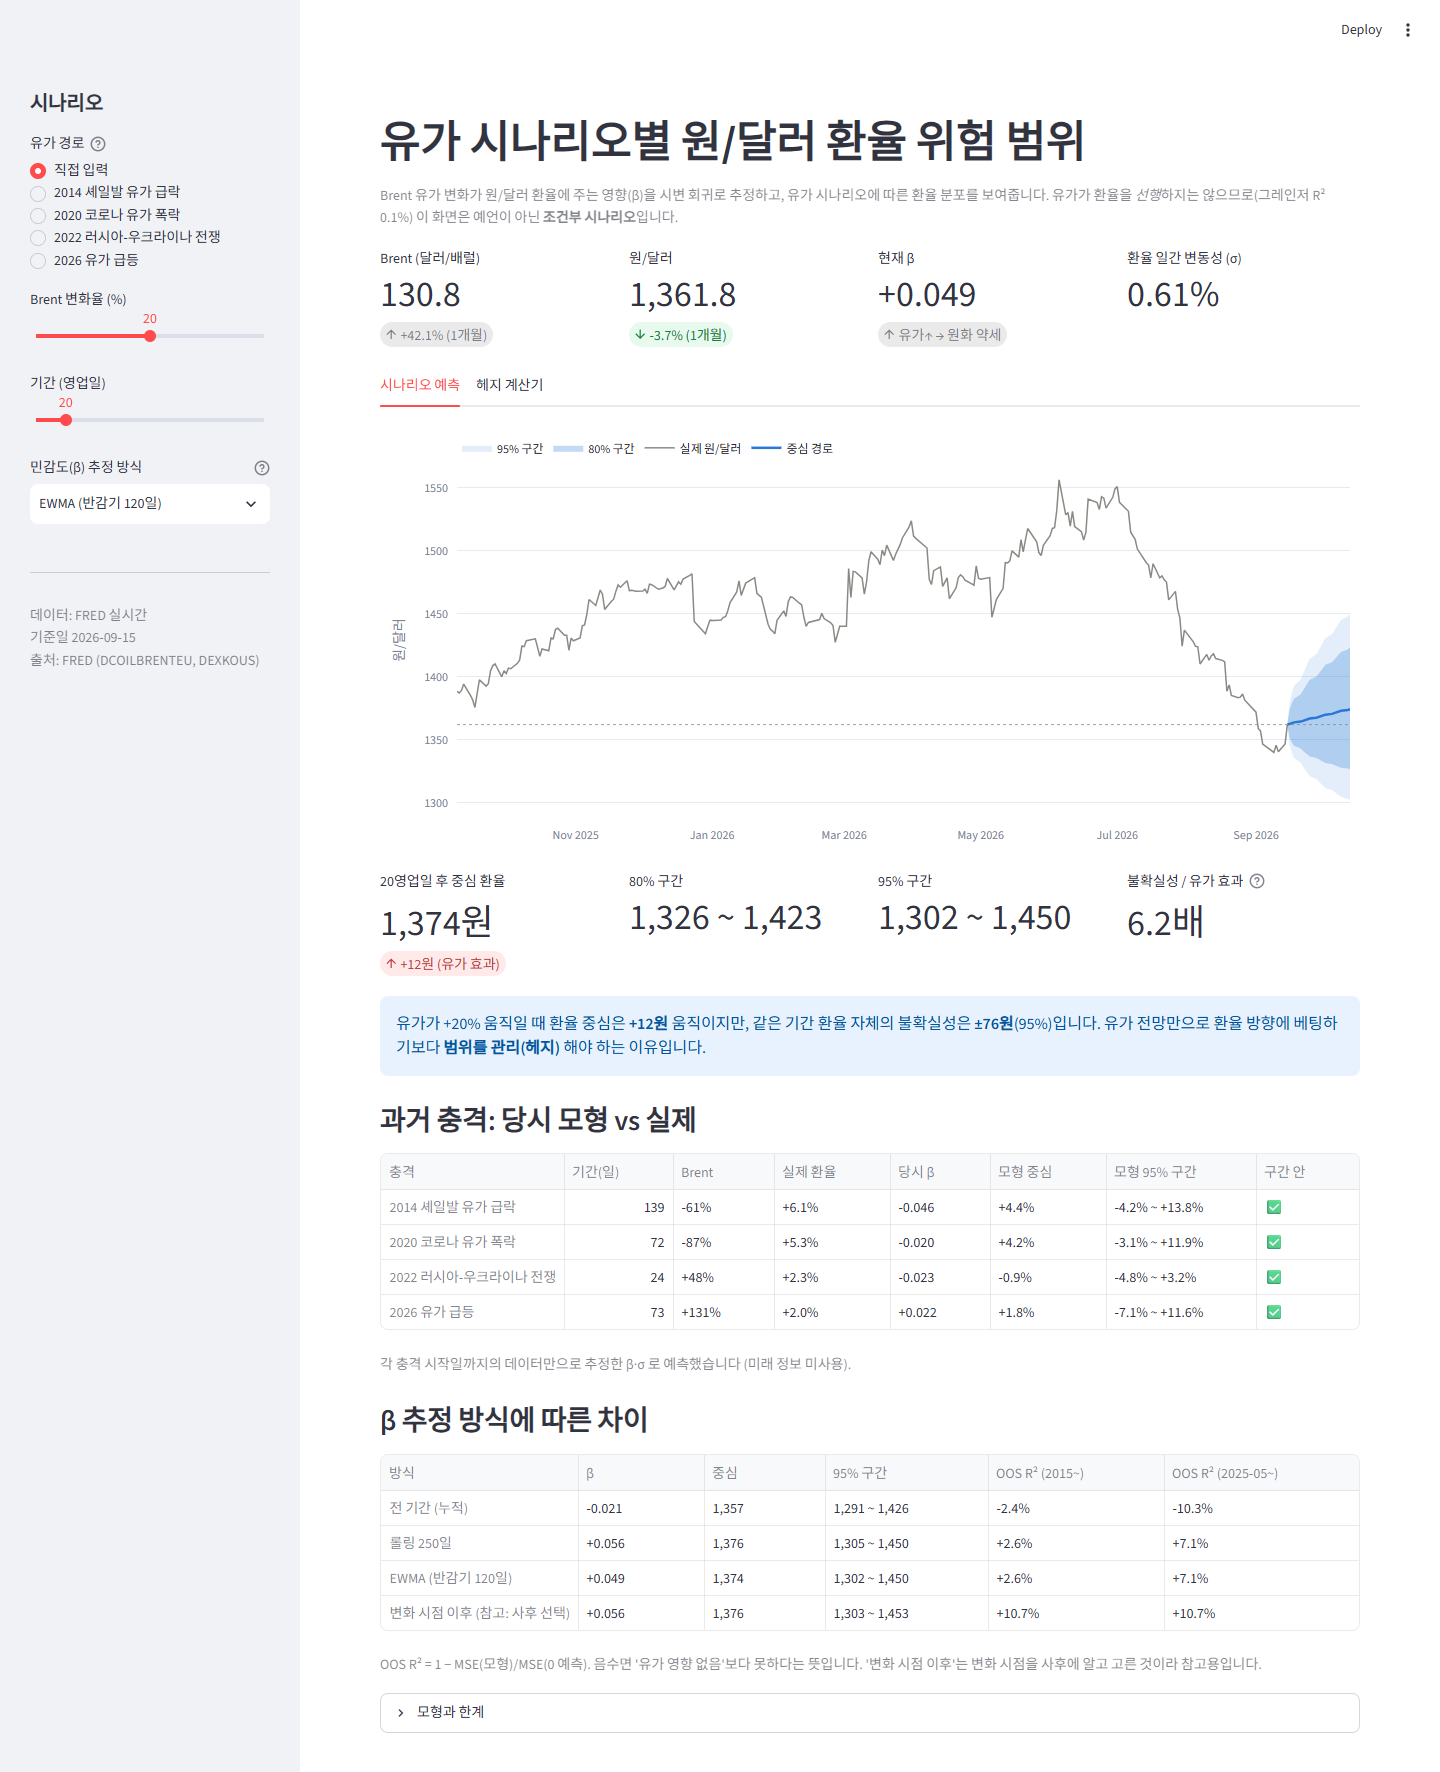
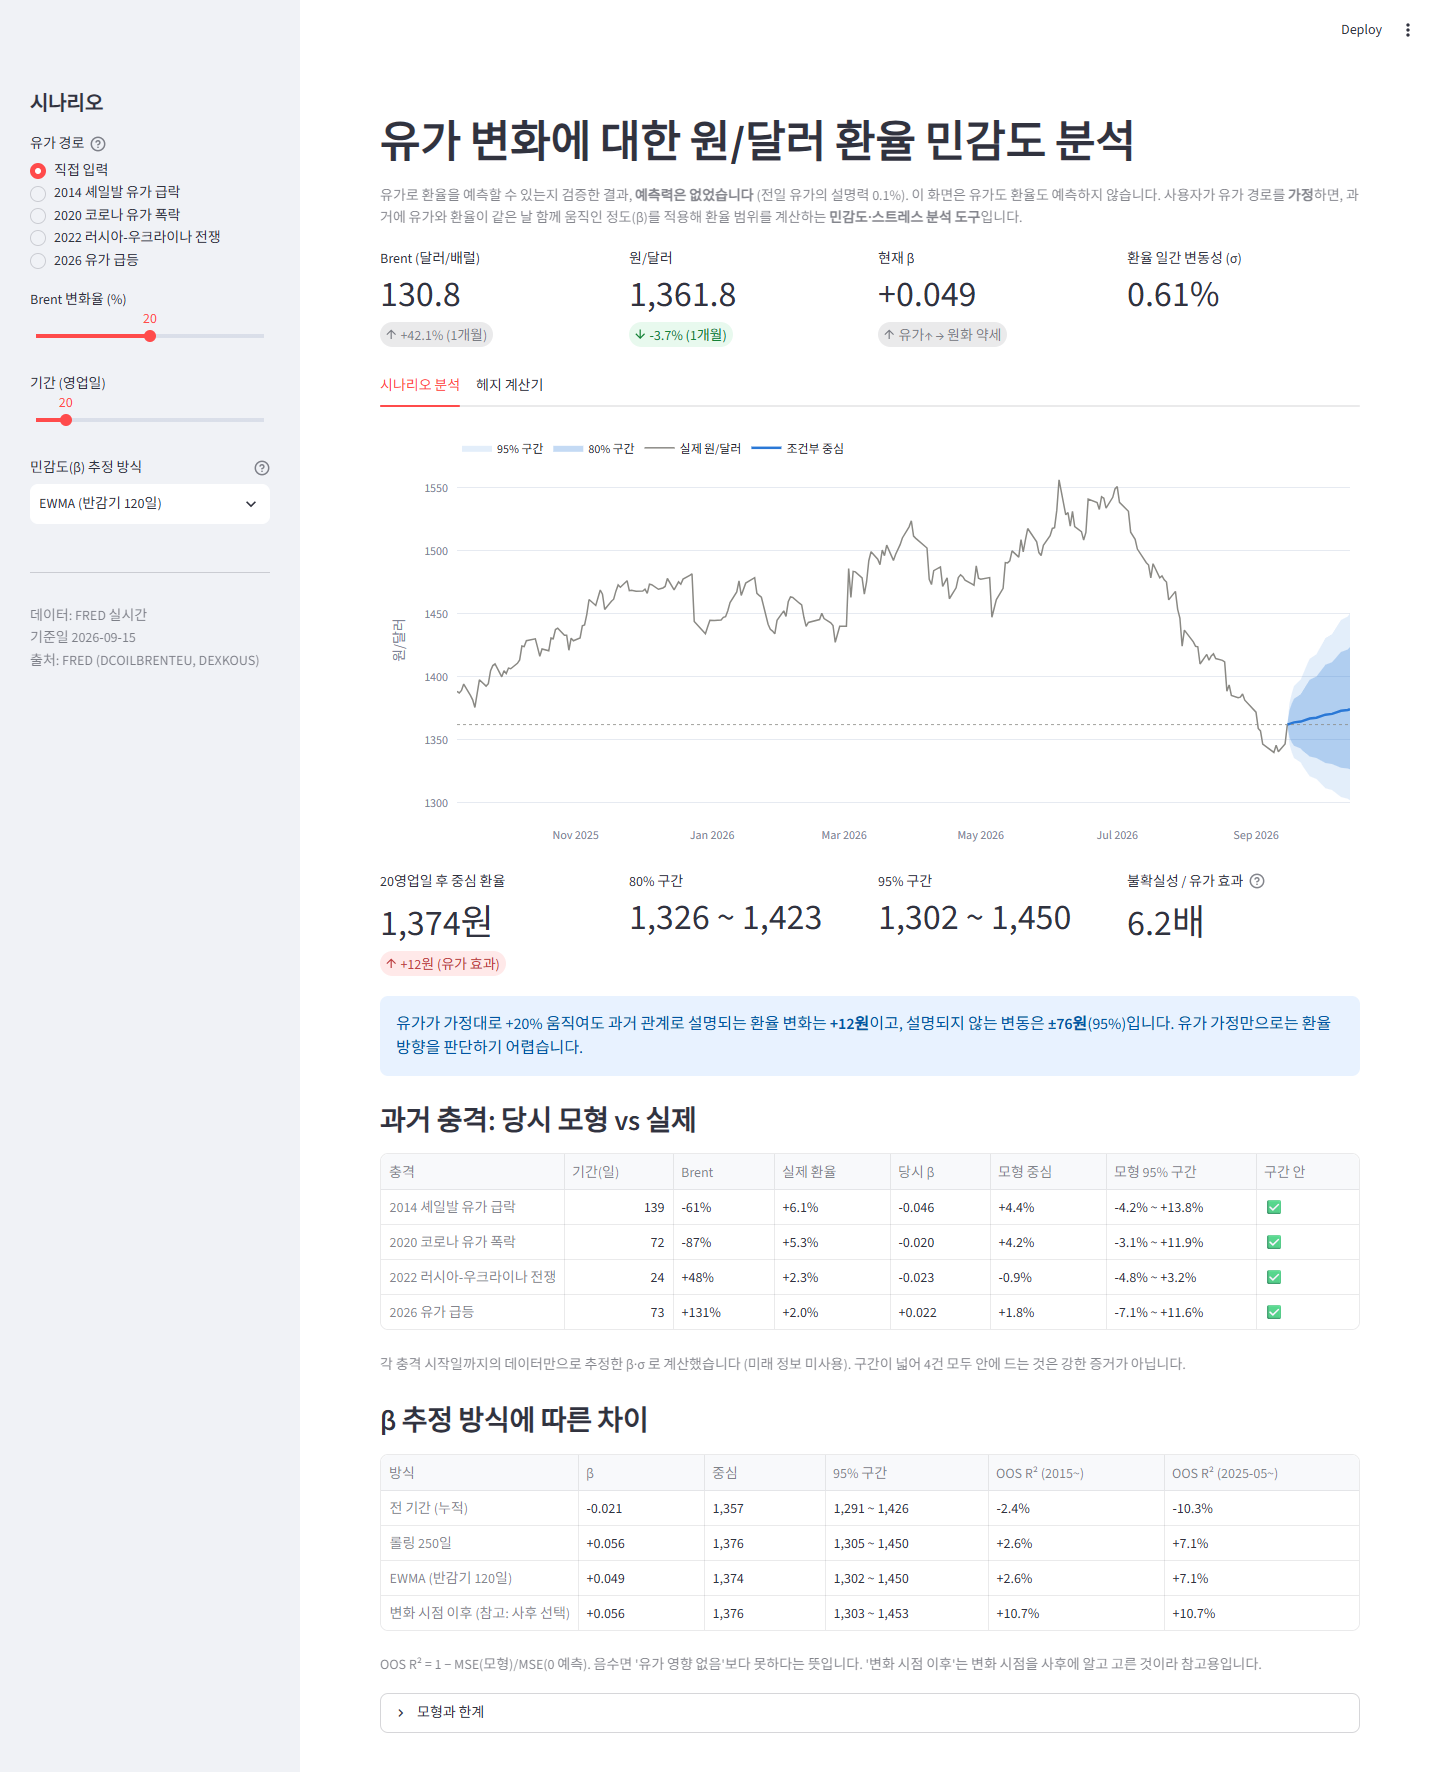
Reframe project as a forecastability test
The analysis found no predictive power of oil for USD/KRW, so the README,
dashboard wording and docstrings now present the result as "cannot be
forecast" and the dashboard as a conditional sensitivity tool, with a
section documenting how the outcome differs from the original goal.

Changed region(s): [[0.25, 0.0621, 0.9375, 0.1242], [0.3125, 0.5587, 0.9375, 0.6208]]

diff --git a/app.py b/app.py
@@ -10,7 +10,7 @@ from src import data, hedge, model
 from src.config import SHOCKS
 from src.explore import FX, OIL
 
-st.set_page_config(page_title="유가–환율 시나리오", page_icon="🛢", layout="wide")
+st.set_page_config(page_title="유가–환율 민감도 분석", page_icon="🛢", layout="wide")
 
 # dataviz 참조 팔레트
 C1, C2, INK2 = "#2a78d6", "#eb6834", "#8a8984"
@@ -64,9 +64,10 @@ sc = model.scenario(spot, e_now.beta, e_now.sigma, oil_chg, days)
 end = sc.iloc[-1]
 
 # ── 헤더 ──────────────────────────────────────────────────────────────────
-st.title("유가 시나리오별 원/달러 환율 위험 범위")
-st.caption("Brent 유가 변화가 원/달러 환율에 주는 영향(β)을 시변 회귀로 추정하고, 유가 시나리오에 따른 환율 분포를 보여줍니다. "
-           "유가가 환율을 *선행*하지는 않으므로(그레인저 R² 0.1%) 이 화면은 예언이 아닌 **조건부 시나리오**입니다.")
+st.title("유가 변화에 대한 원/달러 환율 민감도 분석")
+st.caption("유가로 환율을 예측할 수 있는지 검증한 결과, **예측력은 없었습니다** (전일 유가의 설명력 0.1%). "
+           "이 화면은 유가도 환율도 예측하지 않습니다. 사용자가 유가 경로를 **가정**하면, 과거에 유가와 환율이 "
+           "같은 날 함께 움직인 정도(β)를 적용해 환율 범위를 계산하는 **민감도·스트레스 분석 도구**입니다.")
 
 k = st.columns(4)
 k[0].metric("Brent (달러/배럴)", f"{oil_now:,.1f}", f"{oil_now / daily[OIL].iloc[-21] - 1:+.1%} (1개월)",
@@ -76,7 +77,7 @@ k[2].metric("현재 β", f"{e_now.beta:+.3f}", "유가↑ → 원화 약세" if 
             delta_color="off")
 k[3].metric("환율 일간 변동성 (σ)", f"{e_now.sigma:.2%}")
 
-tab1, tab2 = st.tabs(["시나리오 예측", "헤지 계산기"])
+tab1, tab2 = st.tabs(["시나리오 분석", "헤지 계산기"])
 
 # ── 탭 1: 시나리오 ────────────────────────────────────────────────────────
 with tab1:
@@ -90,7 +91,7 @@ with tab1:
     fig.add_trace(go.Scatter(x=hist.index, y=hist, name="실제 원/달러", line=dict(color=INK2, width=1.5),
                              hovertemplate="%{x|%Y-%m-%d}<br>%{y:,.1f}원<extra></extra>"))
     fig.add_trace(go.Scatter(
-        x=fdates, y=sc.center, name="중심 경로", line=dict(color=C1, width=2.5),
+        x=fdates, y=sc.center, name="조건부 중심", line=dict(color=C1, width=2.5),
         customdata=np.c_[sc.oil_cum * 100, sc.lo95, sc.hi95],
         hovertemplate="%{x|%Y-%m-%d}<br>중심 %{y:,.1f}원<br>95%: %{customdata[1]:,.0f} ~ %{customdata[2]:,.0f}"
                       "<br>누적 유가 %{customdata[0]:+.1f}%<extra></extra>"))
@@ -107,9 +108,8 @@ with tab1:
     m[2].metric("95% 구간", f"{end.lo95:,.0f} ~ {end.hi95:,.0f}")
     m[3].metric("불확실성 / 유가 효과", f"{(end.hi95 - end.center) / max(abs(effect), 0.01):,.1f}배",
                 help="95% 구간 반폭 ÷ |유가 효과|. 1보다 크면 유가 외 요인의 변동이 더 크다는 뜻입니다.")
-    st.info(f"유가가 {oil_chg:+.0%} 움직일 때 환율 중심은 **{effect:+,.0f}원** 움직이지만, 같은 기간 환율 자체의 "
-            f"불확실성은 **±{end.hi95 - end.center:,.0f}원**(95%)입니다. 유가 전망만으로 환율 방향에 베팅하기보다 "
-            f"**범위를 관리(헤지)** 해야 하는 이유입니다.")
+    st.info(f"유가가 가정대로 {oil_chg:+.0%} 움직여도 과거 관계로 설명되는 환율 변화는 **{effect:+,.0f}원**이고, "
+            f"설명되지 않는 변동은 **±{end.hi95 - end.center:,.0f}원**(95%)입니다. 유가 가정만으로는 환율 방향을 판단하기 어렵습니다.")
 
     st.subheader("과거 충격: 당시 모형 vs 실제")
     rows = []
@@ -123,7 +123,7 @@ with tab1:
                      "모형 95% 구간": f"{b['lo95']:+.1%} ~ {b['hi95']:+.1%}" if has else "–",
                      "구간 안": ("✅" if b["lo95"] <= b["fx_chg"] <= b["hi95"] else "❌") if has else "–"})
     st.dataframe(pd.DataFrame(rows).set_index("충격"), width="stretch")
-    st.caption("각 충격 시작일까지의 데이터만으로 추정한 β·σ 로 예측했습니다 (미래 정보 미사용).")
+    st.caption("각 충격 시작일까지의 데이터만으로 추정한 β·σ 로 계산했습니다 (미래 정보 미사용). 구간이 넓어 4건 모두 안에 드는 것은 강한 증거가 아닙니다.")
     st.subheader("β 추정 방식에 따른 차이")
     rows = []
     for key, lab in model.METHODS.items():

diff --git a/src/model.py b/src/model.py
@@ -3,7 +3,7 @@
 모형:  r_fx,t = β_t · r_oil,t + ε_t,   ε_t ~ N(0, σ_t²)
 - β_t, σ_t 는 t-1 일까지의 데이터로만 추정한다 (미래 정보 차단).
 - 절편은 두지 않는다. 일별 환율 추세(드리프트)는 잡음 대비 너무 작아 추정 오차만 키운다.
-- 3단계 결론(동시점 관계, 선행 예측력 없음)에 따라 '조건부' 예측: 유가 경로를 주면 환율 분포를 낸다.
+- 3단계 결론(동시점 관계, 선행 예측력 없음)에 따라 조건부 시나리오: 유가 경로를 가정으로 주면 환율 분포를 낸다 (유가 자체는 예측하지 않음).
 """
 from __future__ import annotations
 
@@ -14,7 +14,7 @@ from scipy import stats
 from .explore import FX, OIL
 
 BREAK_DATE = "2025-04-29"      # 3단계 QLR(2020~ 표본)이 찾은 변화 시점
-EWMA_HALFLIFE = 120            # 거래일. 사전에 정한 값 (반년), 민감도는 halflife_sensitivity 로 확인
+EWMA_HALFLIFE = 120            # 거래일. 사전에 정한 값 (반년), 반감기 민감도는 run_model.py 에서 확인
 MIN_OBS = 120
 
 METHODS = {
@@ -105,7 +105,7 @@ def scenario(spot: float, beta: float, sigma_d: float, oil_change: float, days: 
 
 
 def shock_backtest(px: pd.DataFrame, est: pd.DataFrame, start: str, end: str) -> dict:
-    """과거 충격 구간: 당시(시작 전날) β·σ 로 낸 예측 vs 실제 환율 변화."""
+    """과거 충격 구간: 충격 시작일까지의 β·σ 로 계산한 범위 vs 실제 환율 변화."""
     seg = px.loc[start:end, [OIL, FX]].dropna()
     days = len(seg) - 1
     oil_chg = seg[OIL].iloc[-1] / seg[OIL].iloc[0] - 1

diff --git a/README.md b/README.md
@@ -1,7 +1,7 @@
-# 유가–원/달러 환율 시나리오 대시보드
+# 유가로 원/달러 환율을 예측할 수 있는가?
 
-> 국제유가가 원/달러 환율에 주는 영향을 통계적으로 검정하고,
-> 확인된 관계로 **유가 시나리오별 환율 위험 범위**와 **헤지 효과**를 보여주는 대시보드
+> 국제유가로 원/달러 환율을 예측할 수 있는지 통계적으로 검증한 프로젝트.
+> 결론은 **예측할 수 없다**이며, 검증 과정에서 확인된 약한 동시점 관계를 **유가 시나리오별 환율 민감도 분석 대시보드**로 정리했다.
 
 **라이브 데모:** https://oil-fx-dashboard-9kwlwhhrwz8bejyxg9xqgg.streamlit.app/
 
@@ -11,19 +11,31 @@
 
 ## 핵심 결론
 
-1. **관계의 방향이 바뀌었다.** 2010~2024년에는 유가가 오를 때 원화가 강해졌지만(상관 -0.10),
-   2025년 이후에는 원유 수입국답게 원화가 약해진다(+0.27). QLR 검정이 **2025-04-29**를 구조변화 시점으로 스스로 찾아냈다.
-2. **유가는 환율을 미리 알려주지 않는다.** 두 변수는 같은 날 함께 움직일 뿐, 전날 유가로 환율을 예측하는 설명력은 0.1%다.
-   그래서 이 대시보드의 "예측"은 **유가가 X% 움직일 때 환율 분포에 대한 조건부 시나리오**다.
-3. **유가 효과보다 환율 자체의 불확실성이 크다.** Brent +20%(20영업일) 시 환율 중심은 +12원 움직이지만 95% 구간은 ±76원이다.
-   유가 전망만으로 환율 방향에 베팅하기보다 **범위를 관리(헤지)** 해야 한다.
+1. **유가로 환율을 예측할 수 없다.** 전날까지의 유가로 오늘 환율을 설명하는 힘은 0.13%다.
+   그레인저 검정은 통계적으로 유의했지만(p=0.006) 경제적으로는 의미가 없는 크기다.
+2. **같은 날 함께 움직이는 관계는 있지만, 약하고 불안정하다.** 2010~2024년에는 유가가 오를 때 원화가 강해졌고(상관 -0.10),
+   2025년 이후에는 반대로 약해진다(+0.27). QLR 검정이 **2025-04-29**를 구조변화 시점으로 찾아냈다.
+3. **그래서 대시보드는 예측 도구가 아니라 민감도 분석 도구다.** 유가 경로를 *가정*하면 과거 관계를 적용해 환율 범위를 계산한다.
+   Brent +20%(20영업일)를 가정해도 과거 관계로 설명되는 환율 변화는 +12원이고, 설명되지 않는 변동은 ±76원(95%)이다.
 
 ---
 
 ## 1. 문제 정의
-- 한국은 원유 순수입국이다. 유가가 오르면 무역수지가 나빠지고 달러 수요가 늘어 **원화 약세** 압력이 생긴다 (무역수지 경로).
-- 반면 세계 경기가 좋을 때는 유가 상승과 위험자산 선호가 함께 나타나 **원화 강세**가 되기도 한다 (글로벌 경기 경로).
-- **질문:** 두 경로 중 어느 쪽이 우세한가? 그 관계는 안정적인가? 예측에 쓸 만큼 유의한가?
+- **출발 가설:** 한국은 원유 순수입국이다. 유가가 오르면 무역수지가 나빠지고 달러 수요가 늘어 **원화가 약해질 것이다** (무역수지 경로).
+- **반대 가능성:** 세계 경기가 좋을 때는 유가 상승과 위험자산 선호가 함께 나타나 **원화가 강해지기도 한다** (글로벌 경기 경로).
+- **원래 목표:** 두 변수의 상관관계를 확인하고, 관계가 확인되면 **유가 변동으로 환율 변동을 예측하는 그래프**를 만든다.
+- **검증 질문:** ① 어느 경로가 우세한가? ② 관계는 안정적인가? ③ 유가로 환율을 예측할 수 있는가?
+
+## 원래 목표와 달라진 점
+| | 원래 목표 | 검증 결과 | 대응 |
+|---|---|---|---|
+| 상관관계 | 유가↑ → 원화↓ 확인 | 전체 기간은 **반대 방향**, 2025년 이후에만 가설 방향 | 국면별 분석과 구조변화 검정으로 전환 시점을 확인 |
+| 예측 | 유가로 환율 예측 그래프 | **예측력 없음** (설명력 0.13%) | 목표를 억지로 유지하지 않고 결론을 "예측 불가"로 정리 |
+| 대시보드 | 환율 예측 그래프 | – | 남은 동시점 관계를 **민감도·스트레스 분석**으로 제공 |
+
+- 환율이 경제 변수로 예측되지 않는다는 결과는 국제금융에서 오래된 발견이다. Meese & Rogoff(1983) 이후 대부분의 환율 모형은
+  표본 밖에서 "내일 환율 = 오늘 환율"이라는 단순 예측을 이기지 못했다. 이 프로젝트는 유가 하나로 같은 결과를 한국 데이터에서 재확인했다.
+- 대시보드의 헤지 계산기는 이 결과를 실무에 쓰는 **한 가지 예시**다. 헤지가 최적 전략이라고 주장하는 것은 아니다.
 
 ## 2. 데이터
 | 변수 | 출처 | 주기 | 비고 |
@@ -61,7 +73,7 @@
 | 전체 | 2010-01 ~ 2026-09 | -0.10 | 유의 |
 
 - 250일 이동상관은 -0.44 ~ +0.42 사이를 오가고, 양(+)인 기간은 14%뿐이다.
-- 전 기간 하나의 계수로 예측하면 현재 국면을 잘못 반영한다.
+- 전 기간 하나의 계수를 쓰면 현재 국면을 잘못 반영한다.
 
 ### 4-2. 통계 검정: 같은 날 움직이고, 최근에 바뀌었다
 | 검정 | 결과 | 모형 설계에 주는 의미 |
@@ -80,6 +92,9 @@
 ### 4-3. 모형과 표본 밖 검증
 **모형:** `r_fx,t = β_t · r_oil,t + ε_t` (일별 로그수익률, 원점 통과). β_t와 σ_t는 **t-1일까지의 데이터로만** 추정한다.
 2015년부터 하루씩 앞으로 옮겨가며 검증했고(워크포워드), 기준선은 "유가 영향 없음(0 예측)"이다.
+
+> 이 검증은 **그날의 실제 유가 변화를 알려준 상태에서** 환율 변화를 얼마나 설명하는지 본다. 즉 예측력이 아니라
+> *유가 경로를 가정했을 때 계산되는 범위가 믿을 만한지*를 검증한다. 유가를 미리 알 수 없다면 이 설명력도 쓸 수 없다.
 
 | 방식 | 일별 OOS R² (2015~) | 일별 OOS R² (2025-05~) | 큰 유가 변동 시 방향 적중 (2025-05~) | 95% 구간 커버리지 |
 |---|---|---|---|---|
@@ -101,8 +116,8 @@
 
 | 기능 | 내용 |
 |---|---|
-| 시나리오 예측 | Brent 변화율·기간·β 방식을 고르면 원/달러 중심 경로와 80%/95% 구간 |
-| 과거 충격 프리셋 | 2014 급락, 2020 코로나, 2022 전쟁, 2026 급등을 오늘에 적용하고, **당시 데이터만으로 낸 예측과 실제 결과**를 비교 |
+| 시나리오 분석 | Brent 변화율·기간을 **가정**하고 β 방식을 고르면 원/달러 조건부 중심과 80%/95% 구간 |
+| 과거 충격 프리셋 | 2014 급락, 2020 코로나, 2022 전쟁, 2026 급등을 오늘에 적용하고, **당시 데이터만으로 계산한 범위와 실제 결과**를 비교 |
 | 헤지 계산기 | 수입/수출 달러 포지션 × 헤지 비율별 95% 손익 범위 |
 | 데이터 갱신 | 접속 시 FRED에서 갱신(6시간 캐시), 실패하면 저장된 CSV로 대체 |
 
@@ -117,7 +132,7 @@
 - **헤지 계산 단순화:** 스왑포인트는 입력값이고(기본 0), 증거금·거래비용·베이시스 위험은 무시했다.
 
 ## 6. 시사점과 향후 과제
-- **실무 시사점:** 유가 급등기에도 환율 방향은 확신할 수 없다. 원유 수입업체라면 유가 전망보다 환율 **범위**를 기준으로 헤지 비율을 정하는 편이 합리적이다.
+- **실무 시사점:** 유가 전망만으로는 환율 방향을 판단할 근거가 약하다. 유가에 노출된 기업이라면 유가와 환율을 별개의 위험으로 보고 각각의 범위를 관리하는 편이 합리적이다.
 - **선물 커브 연동:** 유가 경로를 사용자가 직접 넣는 대신, 유가 선물 가격(예: NH선물 API)에서 시장이 예상하는 경로를 받아 시나리오에 쓴다.
 - **다요인 확장:** 달러 인덱스와 금리차를 추가하고, 국면 전환 모형(Markov switching)으로 β의 변화를 직접 모형화한다.
 - **꼬리 위험:** t분포나 GARCH로 구간을 보정한다.
